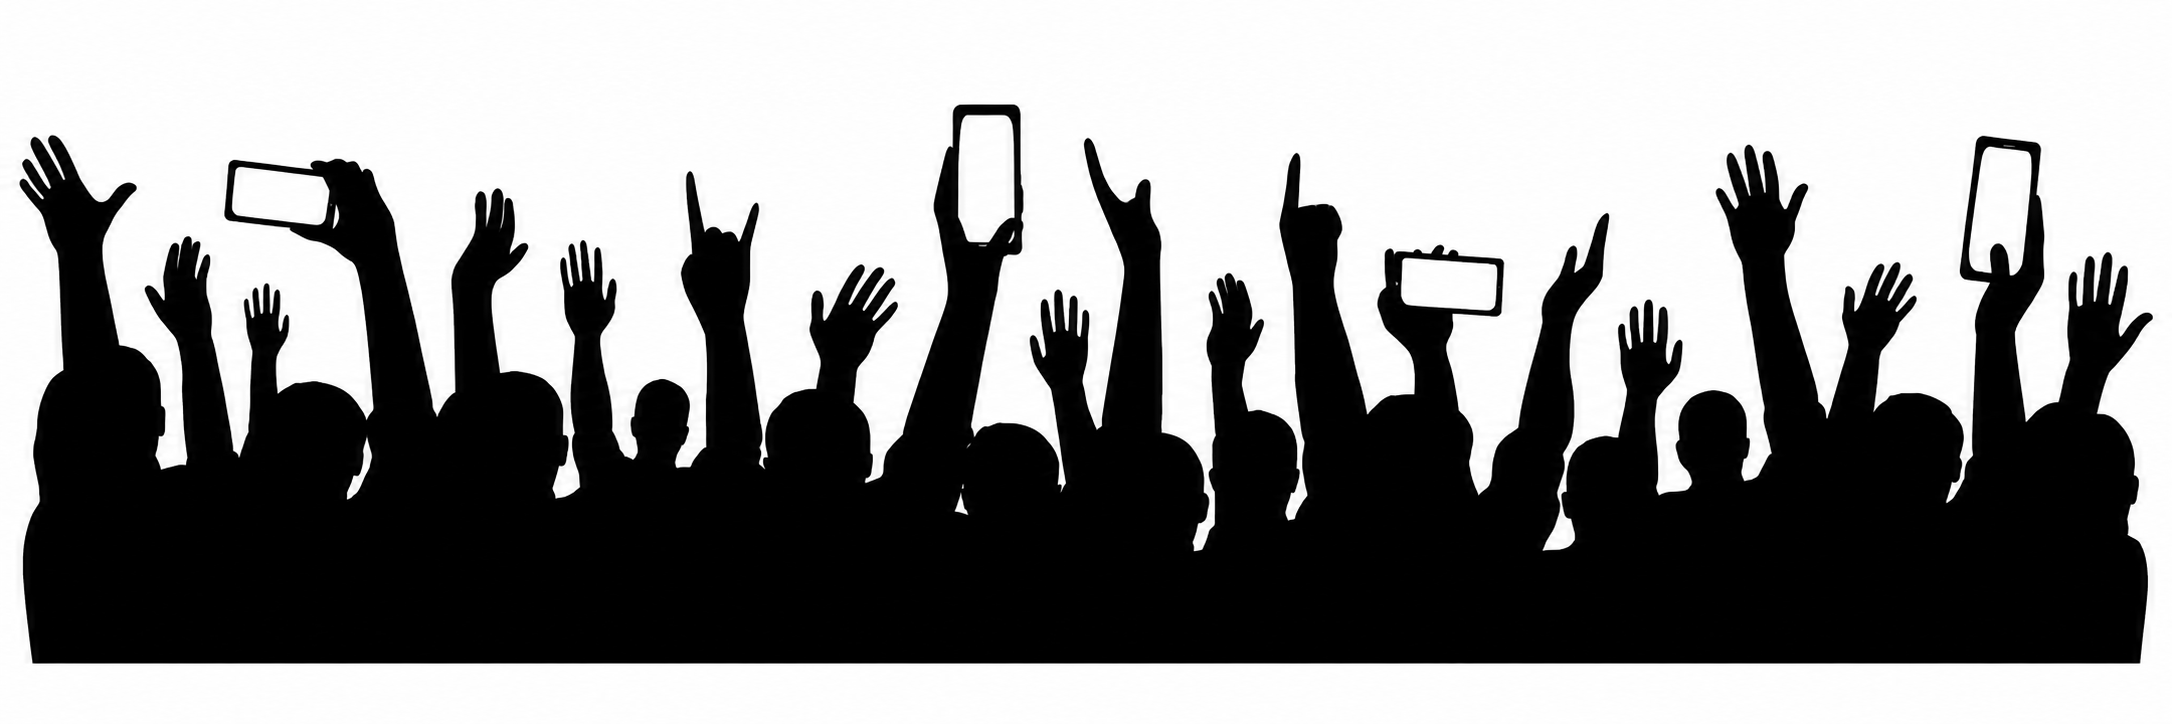
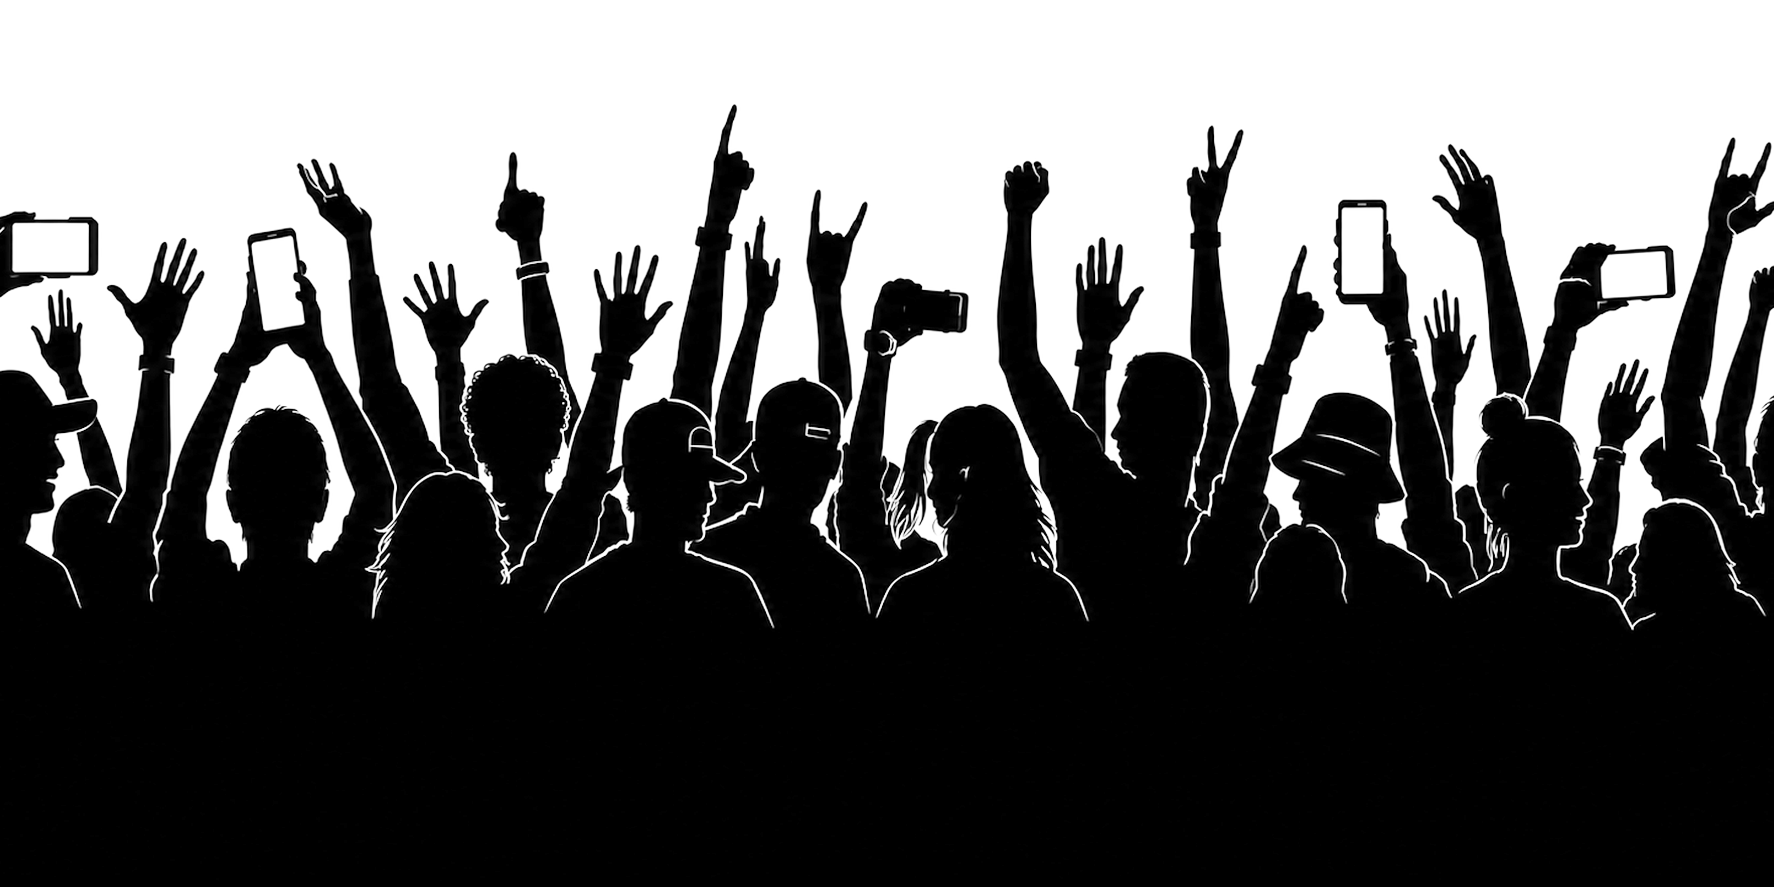
feat(frontend): final chat UX polish for submission (#43)
Bundled submission-quality UX polish: Hero unmounts on verify, composer pins to viewport bottom on mobile, side-by-side identity for the streaming Stop button (was destructive red — broke the cyan→violet→fuchsia palette), Verify Key text contrast bumped to cyan-300 + full-width on mobile-stacked form, music attribution relocated below the composer, symmetric bottom-LEFT rainbow added to mirror the existing bottom-right, concert-crowd.png re-processed via silhouette-prep.py (luminance→alpha + match-reference for height alignment with concert-crowd-2.png).

Mobile chat UX now matches the industry norm (Claude / ChatGPT / Gemini): once the user verifies their key, the landing Hero unmounts entirely (via new HeroWrapper Client Component, mirroring DisclaimerWrapper's children-as-prop pattern), the chat-shell flex-grows into the freed space, and the composer naturally pins to the bottom of the svh viewport. No more scrolling on iPhone 14 Pro to find the composer.

Verify Key button readability: white-on-semi-transparent-dark over the rainbow locked-input-ring border was failing WCAG contrast. Switched to a fully opaque slate-950 background with cyan-300 text (in-system: matches the headline gradient's cyan start stop). Mobile-stacked layout (grid-cols-1 sm:grid-cols-[1fr_auto]) restored — input on row 1, button on row 2 with w-full so it fills the locked-input-ring instead of sitting at content-width with the rainbow bleeding through on either side.
[…]

diff --git a/frontend/app/page.tsx b/frontend/app/page.tsx
@@ -7,6 +7,7 @@ import { LoveIsTheOnlyAnswer } from "@/components/decoration/love-is-the-only-an
 import { DisclaimerFooter } from "@/components/layout/disclaimer-footer";
 import { DisclaimerWrapper } from "@/components/layout/disclaimer-wrapper";
 import { Hero } from "@/components/layout/hero";
+import { HeroWrapper } from "@/components/layout/hero-wrapper";
 import { LayoutRoot } from "@/components/layout/layout-root";
 import { isPlausibleOpenAiKey } from "@/lib/schemas";
 import { unseal } from "@/lib/session-crypto";
@@ -36,8 +37,8 @@ export default async function HomePage() {
           scale with viewport width without ever overlapping or drifting
           to the screen corners. Shown at 2xl+ (>=1536px); below that the
           shell consumes too much horizontal real estate to fit them. */}
-      <LoveIsTheOnlyAnswer className="pointer-events-none absolute top-[18%] z-0 hidden w-[220px] opacity-90 2xl:block 2xl:right-[calc(50%+540px)] min-[1800px]:top-[22%] min-[1800px]:w-[260px]" />
-      <LoveIsTheOnlyAnswer className="pointer-events-none absolute top-1/2 z-0 hidden w-[220px] -translate-y-1/2 opacity-90 2xl:block 2xl:left-[calc(50%+540px)] min-[1800px]:w-[260px]" />
+      <LoveIsTheOnlyAnswer className="pointer-events-none absolute top-[18%] z-0 hidden w-60 opacity-90 2xl:block 2xl:right-[calc(50%+590px)] min-[1800px]:top-[22%] min-[1800px]:w-70" />
+      <LoveIsTheOnlyAnswer className="pointer-events-none absolute top-[48%] z-0 hidden w-60 -translate-y-1/2 opacity-90 2xl:block 2xl:left-[calc(50%+590px)] min-[1800px]:w-80" />
 
       {/* Heart doodles — ambient warmth, confined to the TOP HALF of the
           viewport so they never land ON the crowd silhouette (which fills
@@ -53,7 +54,7 @@ export default async function HomePage() {
       <HeartDoodle
         variant="red"
         size={40}
-        className="absolute top-[10%] left-[6%] z-10 hidden rotate-6 opacity-85 md:block"
+        className="absolute top-[10%] left-[6%] z-1 hidden rotate-6 opacity-85 lg:block"
       />
       <HeartDoodle
         variant="red"
@@ -73,7 +74,9 @@ export default async function HomePage() {
           subscribes to the same context and propagates verify/disconnect
           transitions through `useLockState().setIsChatLocked`. */}
       <LayoutRoot initialIsApiKeyVerified={initialIsApiKeyVerified}>
-        <Hero />
+        <HeroWrapper>
+          <Hero />
+        </HeroWrapper>
         <ChatShell initialIsApiKeyVerified={initialIsApiKeyVerified} />
         <DisclaimerWrapper>
           <DisclaimerFooter />

diff --git a/frontend/components/chat/locked-key-card.tsx b/frontend/components/chat/locked-key-card.tsx
@@ -82,12 +82,12 @@ export function LockedKeyCard({
           it in the existing chrome family. Lives ABOVE the form so the
           user sees it before clicking Verify. */}
       <p className="mt-2 mb-2 inline-flex items-center gap-2 rounded-full border border-cyan-300/35 bg-cyan-300/8 px-4 py-1.5 font-medium text-yellow-200 text-sm shadow-[0_0_20px_rgba(125,249,255,0.18)] [text-shadow:0_1px_2px_rgba(0,0,0,0.45)] sm:mt-3 sm:mb-3 sm:gap-2.5 sm:px-5 sm:py-2 sm:text-base">
-        <Volume2 aria-hidden className="h-4 w-4 shrink-0 sm:h-[18px] sm:w-[18px]" />
+        <Volume2 aria-hidden className="h-4 w-4 shrink-0 sm:h-4.5 sm:w-4.5" />
         <span className="italic">Turn on your device sound for the full experience.</span>
       </p>
       <form
         onSubmit={handleSubmit}
-        className="grid w-full max-w-[560px] grid-cols-[1fr_auto] gap-2.5 sm:gap-3"
+        className="grid w-full max-w-140 grid-cols-1 gap-2.5 sm:grid-cols-[1fr_auto] sm:gap-3"
       >
         <Label htmlFor="openai-key" className="sr-only">
           OpenAI API key
@@ -113,7 +113,7 @@ export function LockedKeyCard({
           <Button
             type="submit"
             disabled={isVerifyingKey || apiKeyInput.trim().length === 0}
-            className="locked-verify-btn h-12 border-0 bg-slate-950/55 px-7 font-semibold text-base text-white shadow-none hover:bg-slate-950/70 hover:text-white disabled:opacity-65"
+            className="locked-verify-btn h-12 w-full border-0 bg-slate-950 px-7 font-semibold text-base text-cyan-300 shadow-none hover:bg-slate-900 hover:text-cyan-200 disabled:opacity-90"
           >
             {isVerifyingKey ? "Verifying..." : "Verify key"}
           </Button>
@@ -128,7 +128,7 @@ export function LockedKeyCard({
             keyFeedbackTone === "success"
               ? "text-emerald-200"
               : keyFeedbackTone === "error"
-                ? "text-rose-200"
+                ? "text-red-200 animate-pulse duration-400"
                 : "text-slate-100"
           )}
         >

diff --git a/frontend/components/chat/chat-panel.tsx b/frontend/components/chat/chat-panel.tsx
@@ -97,20 +97,6 @@ export function ChatPanel({
         endOfMessagesRef={endOfMessagesRef}
       />
 
-      {/* Pond5 audio attribution — minimal-footprint, always-visible legal
-          credit. The bottom-of-page <DisclaimerFooter> contains the full
-          credit too, but on lg+ viewports the disclaimer is clipped below
-          the `lg:overflow-hidden` boundary on <main>, so a returning user
-          mid-chat would not be able to reach it. This line keeps the
-          Pond5 attribution accessible at all times during the chat
-          experience without competing with the conversation. Full
-          disclaimer text remains in DisclaimerFooter (locked state shows
-          it prominently; verified state will surface it via the modal
-          coming in Bug #1.7). */}
-      <p className="m-0 px-3 text-center text-[0.6rem] text-white/40 italic leading-tight [text-shadow:0_1px_2px_rgba(0,0,0,0.4)] sm:text-[0.65rem]">
-        Music: “Aerophonia” by TangerineMedia · Pond5
-      </p>
-
       <ChatComposer
         value={inputValue}
         isLoading={isLoading}
@@ -119,6 +105,16 @@ export function ChatPanel({
         onSubmit={onSubmitMessage}
         onStop={onStopRequest}
       />
+
+      {/* Pond5 audio attribution — minimal-footprint, always-visible legal
+          credit, rendered BELOW the composer so it reads as meta/footer
+          rather than competing with the primary action. The locked-state
+          <DisclaimerFooter> contains the full credit; this in-chat line
+          keeps the Pond5 attribution visible at all times during the
+          chat experience (license requirement). */}
+      <p className="m-0 px-3 text-center text-[0.6rem] text-white/40 italic leading-tight [text-shadow:0_1px_2px_rgba(0,0,0,0.4)] sm:text-[0.65rem]">
+        Music: “Aerophonia” by TangerineMedia · Pond5
+      </p>
     </div>
   );
 }

diff --git a/frontend/components/layout/disclaimer-wrapper.tsx b/frontend/components/layout/disclaimer-wrapper.tsx
@@ -12,22 +12,18 @@ interface DisclaimerWrapperProps {
  * Conditionally renders the disclaimer footer ONLY in the locked
  * (landing) state. In the verified / chatting state, the wrapper
  * unmounts entirely — its DOM presence was producing a visible bleed-
- * through artifact above the composer (most plausibly a browser
- * backdrop-filter + sibling-stacking-context quirk: the chat shell's
- * `backdrop-blur-[20px]` was sampling content adjacent to the
- * disclaimer region differently when the wrapper was present, allowing
- * the body bg's amber radial gradient at `circle at 48% 88%` to read
- * through to the composer area).
+ * through artifact above the composer (a browser backdrop-filter +
+ * sibling-stacking-context quirk: the chat shell's `backdrop-blur-[20px]`
+ * sampled content adjacent to the disclaimer region differently when
+ * the wrapper was present, allowing the body bg's amber radial gradient
+ * at `circle at 48% 88%` to read through to the composer area).
  *
- * Legal posture is preserved:
+ * Legal posture preserved across both states:
  *   • Locked / landing state — full disclaimer paragraph + audio
  *     credits rendered, prominent on first impression.
  *   • Verified / chatting state — the small italic Pond5 attribution
- *     above `<ChatComposer>` (in `<ChatPanel>`) satisfies the audio-
- *     license attribution requirement at all times.
- *   • Bug #1.7 follow-up: an "ⓘ" icon in `ConnectionStatusCard` will
- *     open a modal with the full disclaimer text for users mid-chat
- *     who want to see it.
+ *     below `<ChatComposer>` (in `<ChatPanel>`) satisfies the audio-
+ *     license attribution requirement at all times during chat use.
  */
 export function DisclaimerWrapper({ children }: DisclaimerWrapperProps) {
   const { isChatLocked } = useLockState();

diff --git a/frontend/components/chat/chat-composer.tsx b/frontend/components/chat/chat-composer.tsx
@@ -90,7 +90,7 @@ export function ChatComposer({
         // current at 2026) snaps textarea height to exactly content +
         // padding, eliminating any unused vertical space. The shell's own
         // min-height: 64px keeps the resting size comfortable.
-        className="composer-field max-h-36 min-h-0 resize-none rounded-none border-0 bg-transparent px-4 py-[1.05rem] text-[1.02rem] text-white shadow-none [field-sizing:content] placeholder:text-white/66 focus-visible:border-0 focus-visible:outline-none focus-visible:ring-0 focus-visible:ring-offset-0"
+        className="composer-field max-h-36 min-h-0 resize-none rounded-none border-0 bg-transparent px-4 py-[1.05rem] text-[1.02rem] text-white shadow-none field-sizing-content placeholder:text-white/66 focus-visible:border-0 focus-visible:outline-none focus-visible:ring-0 focus-visible:ring-offset-0"
       />
       <div className="composer-tools">
         {!isLoading ? (
@@ -107,10 +107,10 @@ export function ChatComposer({
         {isLoading ? (
           <Button
             type="button"
-            variant="destructive"
+            variant="ghost"
             onClick={onStop}
             aria-label="Stop current assistant response"
-            className="h-11 rounded-full px-5 shadow-[0_0_16px_rgba(244,63,94,0.48)]"
+            className="composer-stop h-11 rounded-full px-5 font-semibold text-base text-white hover:text-white"
           >
             Stop
           </Button>

diff --git a/frontend/components/layout/hero-wrapper.tsx b/frontend/components/layout/hero-wrapper.tsx
@@ -1,0 +1,28 @@
+"use client";
+
+import type { ReactNode } from "react";
+
+import { useLockState } from "@/components/layout/layout-root";
+
+interface HeroWrapperProps {
+  children: ReactNode;
+}
+
+/**
+ * Conditionally renders the Hero (landing intro) ONLY in the locked
+ * (landing) state. In the verified / chatting state, the wrapper
+ * unmounts the Hero entirely so the chat-shell expands into the freed
+ * space — composer naturally lands at the viewport bottom, matching the
+ * Claude / ChatGPT / Gemini chat-surface norm.
+ *
+ * Mirrors `<DisclaimerWrapper>`'s pattern (children-as-prop so the
+ * inner Server Component is preserved server-side; Client wrapper only
+ * subscribes to `useLockState()` for the conditional render).
+ */
+export function HeroWrapper({ children }: HeroWrapperProps) {
+  const { isChatLocked } = useLockState();
+  if (!isChatLocked) {
+    return null;
+  }
+  return <>{children}</>;
+}

diff --git a/frontend/app/globals.css b/frontend/app/globals.css
@@ -467,6 +467,27 @@
   }
 }
 
+/* Bottom-LEFT rainbow — mirrors footer__bg-2-img (right) to form a
+   symmetric "butterfly wings" pair at the page bottom corners. The
+   shared Coldplay `bg-bottom-left.webp` asset naturally orients to the
+   left, so this utility renders it as-is (no scaleX). Uses a different
+   drift keyframe (`rainbow-drift-a`) than the right side for a livelier
+   asymmetric breathing motion. Width clamps mirror the right side's
+   responsive scale. */
+@utility footer__bg-img {
+  position: absolute;
+  display: block;
+  width: clamp(420px, 78vw, 1640px);
+  line-height: 0;
+  bottom: -8%;
+  left: -6%;
+  animation: rainbow-drift-a 12s ease-in-out infinite alternate;
+
+  @media (max-width: 640px) {
+    width: clamp(280px, 90vw, 520px);
+  }
+}
+
 @utility footer__bg-2-img {
   position: absolute;
   display: block;

diff --git a/frontend/components/decoration/aurora-background.tsx b/frontend/components/decoration/aurora-background.tsx
@@ -6,6 +6,7 @@
 
 const BG_TOP_LEFT_URL =
   "https://www.coldplay.com/wp/wp-content/themes/coldplay-2024/dist/images/bg-top-left.webp";
+
 const BG_BOTTOM_LEFT_URL =
   "https://www.coldplay.com/wp/wp-content/themes/coldplay-2024/dist/images/bg-bottom-left.webp";
 
@@ -16,6 +17,15 @@ export function AuroraBackground() {
         <img src={BG_TOP_LEFT_URL} alt="" className="header__bg" decoding="async" loading="lazy" />
       </picture>
       <picture className="footer__bg-2-img">
+        <img
+          src={BG_BOTTOM_LEFT_URL}
+          alt=""
+          className="footer__bg"
+          decoding="async"
+          loading="lazy"
+        />
+      </picture>
+      <picture className="footer__bg-img">
         <img
           src={BG_BOTTOM_LEFT_URL}
           alt=""
